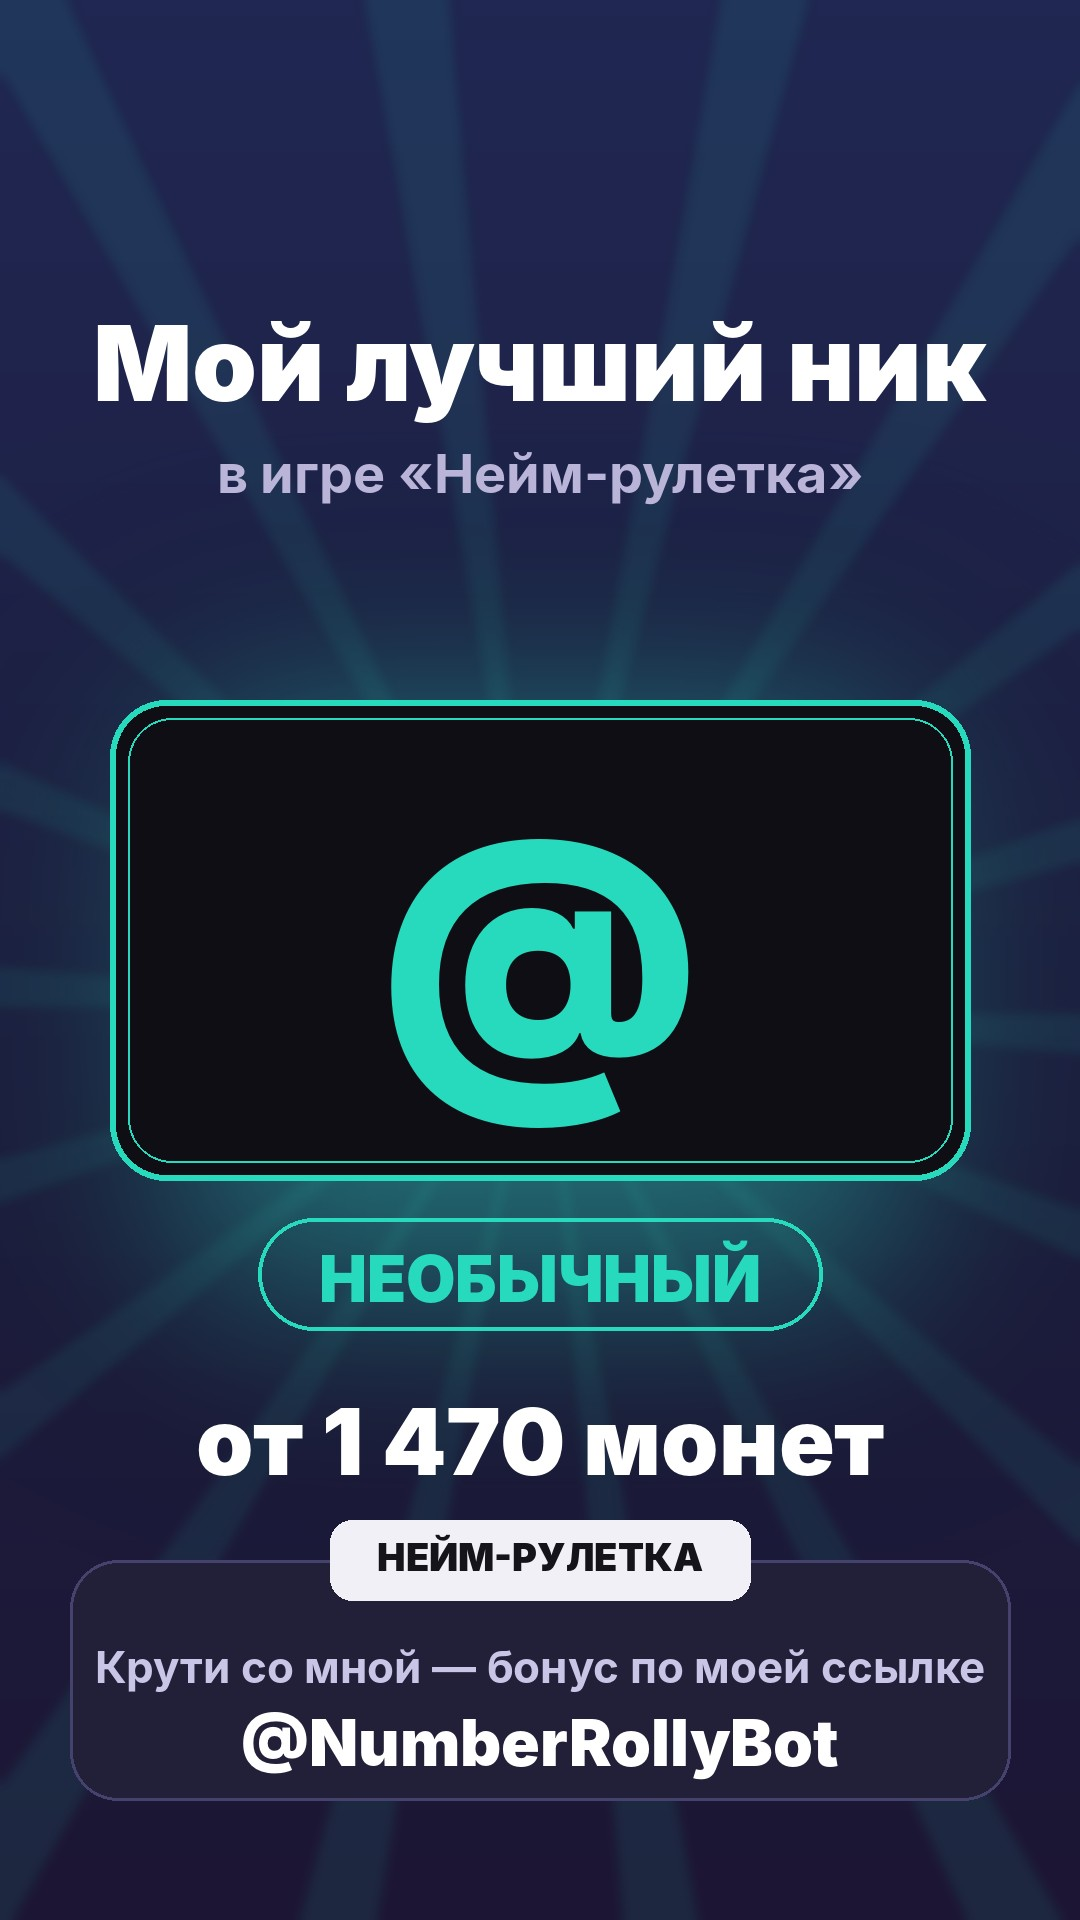
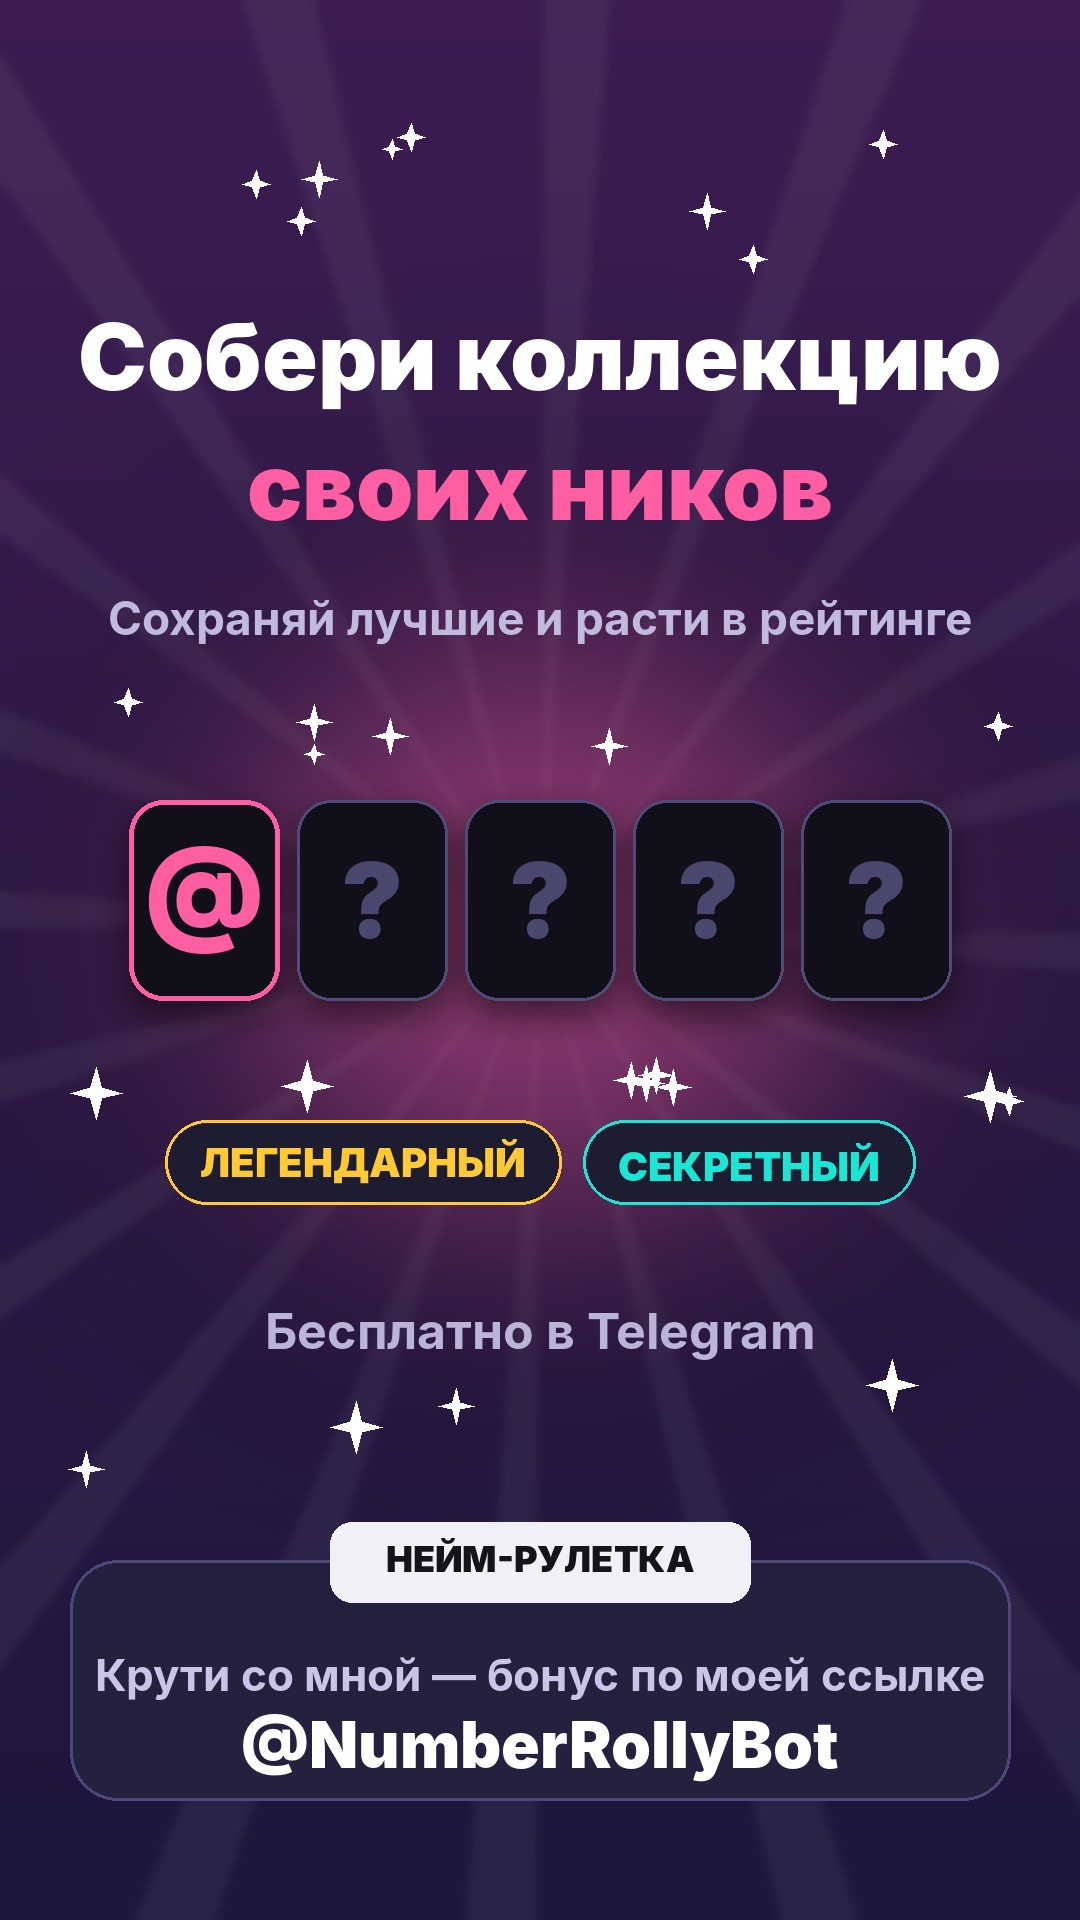
Новые картинки историй: 4 варианта без номера и ников
Claude-Session: https://claude.ai/code/session_01LKqLCCpGdGsaxGVGReFXzq

diff --git a/js/app.js b/js/app.js
@@ -1852,13 +1852,13 @@ async function promoUse(raw){
 const storyOk=()=>{try{return !!(tg&&tg.shareToStory&&tg.isVersionAtLeast&&tg.isVersionAtLeast('7.8'))}catch(e){return false}};
 const ST_C=15000,ST_E=15;   // награда за историю: раз в сутки, без проверки (Telegram не сообщает, выложили ли её)
 function storyCard(){const got=S.storyD===todayK();
-  return `<div class="pcard story"><div class="strow"><div class="stph"><img src="media/story${Math.min(7,Math.max(0,S.best|0))}.jpg" alt=""></div><div class="stb"><h3>Выложи в историю</h3><p>Похвастайся в Telegram — награда каждый день</p><div class="stchips"><span class="stch${got?' got':''}">⚡ +${ST_E} энергии</span><span class="stch${got?' got':''}">🪙 ${fmt(ST_C)}</span></div></div></div>`+
+  return `<div class="pcard story"><div class="strow"><div class="stph"><img src="media/story0.jpg" alt=""></div><div class="stb"><h3>Выложи в историю</h3><p>Похвастайся в Telegram — награда каждый день</p><div class="stchips"><span class="stch${got?' got':''}">⚡ +${ST_E} энергии</span><span class="stch${got?' got':''}">🪙 ${fmt(ST_C)}</span></div></div></div>`+
     (storyOk()?`<button class="btn main stgo" id="story-go">${got?'Выложить ещё одну · без награды':'Выложить в историю'}</button>`:`<div class="ststrip"><svg viewBox="0 0 24 24" width="16" height="16" fill="none" stroke="currentColor" stroke-width="2.2" stroke-linecap="round" aria-hidden="true"><circle cx="12" cy="12" r="9"/><path d="M12 11v5M12 8h.01"/></svg>Истории выкладываются из Telegram на телефоне</div>`)+`</div>`}
 let stP=0;   // когда открыли редактор истории; награда только после возвращения в игру через 10+ секунд
 function storyPay(){if(!stP||document.hidden||Date.now()-stP<10000||S.storyD===todayK())return;stP=0;S.storyD=todayK();S.coins=Math.min(CAP,S.coins+ST_C);S.en+=ST_E;try{sfx('coin')}catch(x){}save();toast(`За историю: +${fmt(ST_C)} 🪙 и +${ST_E} ⚡`);render();try{if(!$('#tab-bon').hidden)renderBon()}catch(x){}}
 ['visibilitychange','focus','pointerdown'].forEach(ev=>addEventListener(ev,()=>setTimeout(storyPay,300),true));
 function shareStory(){
-  const link=refLink(),text=S.spins?`Мой лучший ник в Нейм-рулетке${S.bestn?': @'+S.bestn:''} (${T[S.best].n}). Заходи, выбей лучше!`:'Выбивай редкие юзернеймы в Нейм-рулетке!',media=new URL('media/story'+Math.min(7,Math.max(0,S.best|0))+'.jpg',location.href).href;
+  const link=refLink(),text='Выбивай редкие юзернеймы в Нейм-рулетке. Заходи по моей ссылке — получишь бонус!',media=new URL('media/story'+Math.floor(Math.random()*4)+'.jpg',location.href).href;
   try{if(storyOk()){tg.shareToStory(media,{text,widget_link:{url:link,name:'Нейм-рулетка'}});
     if(S.storyD!==todayK()){stP=Date.now();toast('Выложи историю и вернись в игру: награда придёт сама')}
     return}}catch(x){}

diff --git a/achievements.html b/achievements.html
@@ -119,7 +119,7 @@
 <div class="selbar" id="selbar"><span id="selinfo"></span><button class="btn main sm" id="selsell">Продать</button></div>
 <div class="toast" id="toast" role="status"></div>
 
-<script src="js/app.js?v=20261113i"></script>
+<script src="js/app.js?v=20261113j"></script>
 <script src="js/bank.js?v=20261102zzzzl"></script>
 <script src="js/season.js?v=20261102zzzzl"></script>
 </body>

diff --git a/auction.html b/auction.html
@@ -119,7 +119,7 @@
 <div class="selbar" id="selbar"><span id="selinfo"></span><button class="btn main sm" id="selsell">Продать</button></div>
 <div class="toast" id="toast" role="status"></div>
 
-<script src="js/app.js?v=20261113i"></script>
+<script src="js/app.js?v=20261113j"></script>
 <script src="js/bank.js?v=20261102zzzzl"></script>
 <script src="js/season.js?v=20261102zzzzl"></script>
 </body>

diff --git a/clans.html b/clans.html
@@ -119,7 +119,7 @@
 <div class="selbar" id="selbar"><span id="selinfo"></span><button class="btn main sm" id="selsell">Продать</button></div>
 <div class="toast" id="toast" role="status"></div>
 
-<script src="js/app.js?v=20261113i"></script>
+<script src="js/app.js?v=20261113j"></script>
 <script src="js/bank.js?v=20261102zzzzl"></script>
 <script src="js/season.js?v=20261102zzzzl"></script>
 </body>

diff --git a/index.html b/index.html
@@ -120,7 +120,7 @@
 <div class="selbar" id="selbar"><span id="selinfo"></span><button class="btn main sm" id="selsell">Продать</button></div>
 <div class="toast" id="toast" role="status"></div>
 
-<script src="js/app.js?v=20261113i"></script>
+<script src="js/app.js?v=20261113j"></script>
 <script src="js/bank.js?v=20261102zzzzl"></script>
 <script src="js/season.js?v=20261102zzzzl"></script>
 </body>

diff --git a/market.html b/market.html
@@ -119,7 +119,7 @@
 <div class="selbar" id="selbar"><span id="selinfo"></span><button class="btn main sm" id="selsell">Продать</button></div>
 <div class="toast" id="toast" role="status"></div>
 
-<script src="js/app.js?v=20261113i"></script>
+<script src="js/app.js?v=20261113j"></script>
 <script src="js/bank.js?v=20261102zzzzl"></script>
 <script src="js/season.js?v=20261102zzzzl"></script>
 </body>

diff --git a/museum.html b/museum.html
@@ -119,7 +119,7 @@
 <div class="selbar" id="selbar"><span id="selinfo"></span><button class="btn main sm" id="selsell">Продать</button></div>
 <div class="toast" id="toast" role="status"></div>
 
-<script src="js/app.js?v=20261113i"></script>
+<script src="js/app.js?v=20261113j"></script>
 <script src="js/bank.js?v=20261102zzzzl"></script>
 <script src="js/season.js?v=20261102zzzzl"></script>
 </body>

diff --git a/rating.html b/rating.html
@@ -119,7 +119,7 @@
 <div class="selbar" id="selbar"><span id="selinfo"></span><button class="btn main sm" id="selsell">Продать</button></div>
 <div class="toast" id="toast" role="status"></div>
 
-<script src="js/app.js?v=20261113i"></script>
+<script src="js/app.js?v=20261113j"></script>
 <script src="js/bank.js?v=20261102zzzzl"></script>
 <script src="js/season.js?v=20261102zzzzl"></script>
 </body>

diff --git a/shop.html b/shop.html
@@ -119,7 +119,7 @@
 <div class="selbar" id="selbar"><span id="selinfo"></span><button class="btn main sm" id="selsell">Продать</button></div>
 <div class="toast" id="toast" role="status"></div>
 
-<script src="js/app.js?v=20261113i"></script>
+<script src="js/app.js?v=20261113j"></script>
 <script src="js/bank.js?v=20261102zzzzl"></script>
 <script src="js/season.js?v=20261102zzzzl"></script>
 </body>
